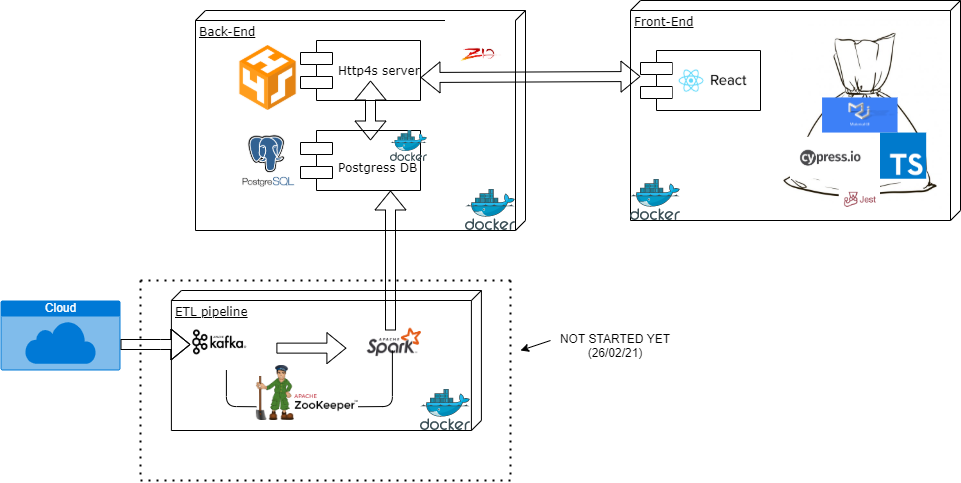
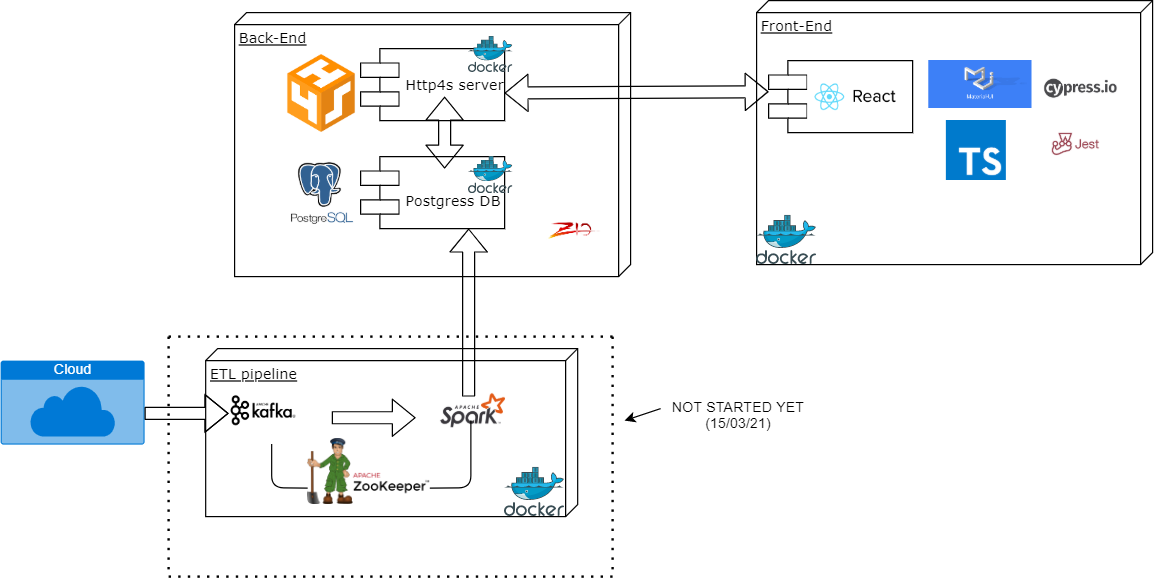
added docker setup for frontend and updated docs

diff --git a/README.md b/README.md
@@ -1,9 +1,18 @@
-# A basic example of a fullstack project using Scala with zio and a typescript react client
-requirements:
- - //TODO:
 
-running it:
- - Start the server from root using `sbt run` (check localhost:8080/hello)
- - Start the client from within client folder using `yarn start` (check localhost:3000)
+## An example fullstack project using **Scala with ZIO** and a **Typescript react** client
+===================================================================
+
+Requirements:
+ - java installed
+ - docker installed
+
+Running it (all):
+**(you need to have docker installed for most of it to work)**
+ * Start the server from root using `sbt run` (check localhost:8080/hello)
+ * `docker-compose up` from root folder to start containers **front-end** and **database**
+
+**To run the front-end on it's own without docker**
+* `yarn start` from client directory ( and check localhost:3000)
+
 
 ![image info](./project_diagram_image.png)
